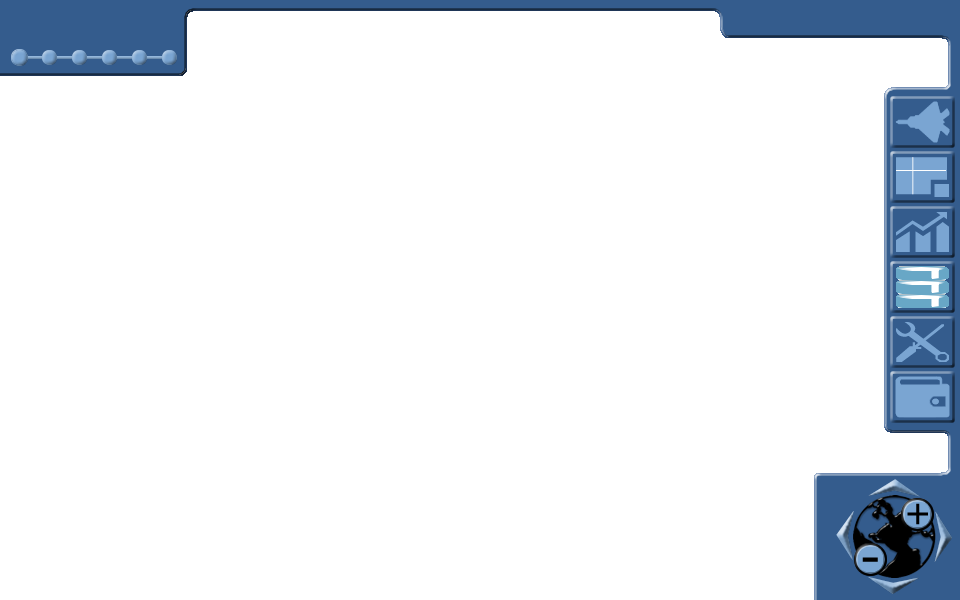
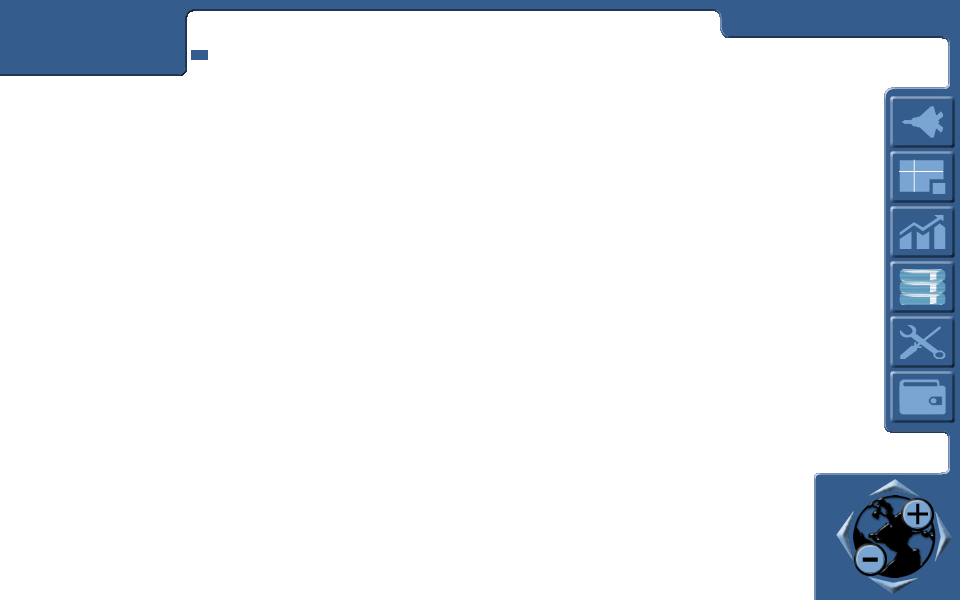
InventoryState BattleScape
Inventory and Battlescape about 95% done,

Changed region(s): [[0.9062, 0.36, 1.0, 0.72], [0.9062, 0.18, 1.0, 0.33], [0.0, 0.06, 0.2188, 0.12]]

diff --git a/src/Geoscape/GeoscapeState.cpp b/src/Geoscape/GeoscapeState.cpp
@@ -124,8 +124,8 @@ GeoscapeState::GeoscapeState() : _pause(false), _zoomInEffectDone(false), _zoomO
 	// Create objects
 	Surface *hd = _game->getResourcePack()->getSurface("ALTGEOBORD.SCR");
 	_bg = new Surface(hd->getWidth(), hd->getHeight(), 0, 0);
-	_sideLine = new Surface(64, screenHeight, screenWidth - 64, 0);
-	_sidebar = new Surface(64, 200, screenWidth - 64, screenHeight / 2 - 100);
+//	_sideLine = new Surface(64, screenHeight, screenWidth - 64, 0);
+//	_sidebar = new Surface(64, 200, screenWidth - 64, screenHeight / 2 - 100);
 
 	_globe = new Globe(_game, (screenWidth-64)/2, screenHeight/2, screenWidth-64, screenHeight, 0, 0);
 	_bg->setX((_globe->getWidth() - _bg->getWidth()) / 2);
@@ -138,34 +138,34 @@ GeoscapeState::GeoscapeState() : _pause(false), _zoomInEffectDone(false), _zoomO
 	_btnOptions = new TextButton(63, 11, screenWidth-63, screenHeight/2-52);
 	_btnFunding = new TextButton(63, 11, screenWidth-63, screenHeight/2-40);
 
-	_btn5Secs = new TextButton(31, 13, screenWidth-63, screenHeight/2+12);
-	_btn1Min = new TextButton(31, 13, screenWidth-31, screenHeight/2+12);
-	_btn5Mins = new TextButton(31, 13, screenWidth-63, screenHeight/2+26);
-	_btn30Mins = new TextButton(31, 13, screenWidth-31, screenHeight/2+26);
-	_btn1Hour = new TextButton(31, 13, screenWidth-63, screenHeight/2+40);
-	_btn1Day = new TextButton(31, 13, screenWidth-31, screenHeight/2+40);
+	_btn5Secs = new TextButton(31, 13, 5, 46);
+	_btn1Min = new TextButton(31, 13, 38, 46);
+	_btn5Mins = new TextButton(31, 13, 71, 46);
+	_btn30Mins = new TextButton(31, 13, 104, 46);
+	_btn1Hour = new TextButton(31, 13, 137, 46);
+	_btn1Day = new TextButton(31, 13, 170, 46);
 
-	_btnRotateLeft = new InteractiveSurface(12, 10, screenWidth-61, screenHeight/2+76);
-	_btnRotateRight = new InteractiveSurface(12, 10, screenWidth-37, screenHeight/2+76);
-	_btnRotateUp = new InteractiveSurface(13, 12, screenWidth-49, screenHeight/2+62);
-	_btnRotateDown = new InteractiveSurface(13, 12, screenWidth-49, screenHeight/2+87);
-	_btnZoomIn = new InteractiveSurface(23, 23, screenWidth-25, screenHeight/2+56);
-	_btnZoomOut = new InteractiveSurface(13, 17, screenWidth-20, screenHeight/2+82);
+	_btnRotateLeft = new InteractiveSurface(17, 50, 837, 511);
+	_btnRotateRight = new InteractiveSurface(17, 50, 935, 512);
+	_btnRotateUp = new InteractiveSurface(50, 17, 869, 479);
+	_btnRotateDown = new InteractiveSurface(50, 17, 869, 577);
+	_btnZoomIn = new InteractiveSurface(31, 31, 855, 544);
+	_btnZoomOut = new InteractiveSurface(31, 31, 902, 499);
 
-	int height = (screenHeight - Screen::ORIGINAL_HEIGHT) / 2 + 10;
+/**	int height = (screenHeight - Screen::ORIGINAL_HEIGHT) / 2 + 10;
 	_sideTop = new TextButton(63, height, screenWidth-63, _sidebar->getY() - height - 1);
 	_sideBottom = new TextButton(63, height, screenWidth-63, _sidebar->getY() + _sidebar->getHeight() + 1);
-
-	_txtHour = new Text(20, 16, screenWidth-61, screenHeight/2-26);
-	_txtHourSep = new Text(4, 16, screenWidth-41, screenHeight/2-26);
-	_txtMin = new Text(20, 16, screenWidth-37, screenHeight/2-26);
-	_txtMinSep = new Text(4, 16, screenWidth-17, screenHeight/2-26);
-	_txtSec = new Text(11, 8, screenWidth-13, screenHeight/2-20);
-	_txtWeekday = new Text(59, 8, screenWidth-61, screenHeight/2-13);
-	_txtDay = new Text(29, 8, screenWidth-61, screenHeight/2-6);
-	_txtMonth = new Text(29, 8, screenWidth-32, screenHeight/2-6);
-	_txtYear = new Text(59, 8, screenWidth-61, screenHeight/2+1);
-	_txtFunds = new Text(59, 8, screenWidth-61, screenHeight/2-27);
+*/
+	_txtHour = new Text(20, 16, 54, 25);
+	_txtHourSep = new Text(4, 16, 74, 25);
+	_txtMin = new Text(20, 16, 78, 25);
+	_txtMinSep = new Text(4, 16, 98, 25);
+	_txtSec = new Text(11, 8, 102, 25);
+	_txtWeekday = new Text(59, 8, 9, 8);
+	_txtDay = new Text(29, 8, 68, 8);
+	_txtMonth = new Text(29, 8, 97, 8);
+	_txtYear = new Text(59, 8, 136, 8);
+	_txtFunds = new Text(59, 16, 800, 12);
 
 	_timeSpeed = _btn5Secs;
 	_gameTimer = new Timer(Options::geoClockSpeed);
@@ -174,7 +174,7 @@ GeoscapeState::GeoscapeState() : _pause(false), _zoomInEffectDone(false), _zoomO
 	_zoomOutEffectTimer = new Timer(Options::dogfightSpeed+10);
 	_dogfightStartTimer = new Timer(Options::dogfightSpeed+10);
 
-	_txtDebug = new Text(200, 18, 0, 0);
+	_txtDebug = new Text(350, 18, 0, 0);
 
 	// Set palette
 	setPalette("PAL_GEOSCAPE");
@@ -184,8 +184,8 @@ GeoscapeState::GeoscapeState() : _pause(false), _zoomInEffectDone(false), _zoomO
 	_game->getFpsCounter()->setColor(Palette::blockOffset(15)+12);
 
 	add(_bg);
-	add(_sideLine);
-	add(_sidebar);
+//	add(_sideLine);
+//	add(_sidebar);
 	add(_globe);
 
 	add(_btnIntercept);
@@ -227,12 +227,12 @@ GeoscapeState::GeoscapeState() : _pause(false), _zoomInEffectDone(false), _zoomO
 
 	// Set up objects
 	Surface *geobord = _game->getResourcePack()->getSurface("GEOBORD.SCR");
-	geobord->setX(_sidebar->getX() - geobord->getWidth() + _sidebar->getWidth());
-	geobord->setY(_sidebar->getY());
-	_sidebar->copy(geobord);
+//	geobord->setX(_sidebar->getX() - geobord->getWidth() + _sidebar->getWidth());
+//	geobord->setY(_sidebar->getY());
+//	_sidebar->copy(geobord);
 	_game->getResourcePack()->getSurface("ALTGEOBORD.SCR")->blit(_bg);
 
-	_sideLine->drawRect(0, 0, _sideLine->getWidth(), _sideLine->getHeight(), 15);
+//	_sideLine->drawRect(0, 0, _sideLine->getWidth(), _sideLine->getHeight(), 15);
 
 	_btnIntercept->initText(_game->getResourcePack()->getFont("FONT_GEO_BIG"), _game->getResourcePack()->getFont("FONT_GEO_SMALL"), _game->getLanguage());
 	_btnIntercept->setColor(Palette::blockOffset(15)+6);
@@ -2294,13 +2294,13 @@ void GeoscapeState::resize(int &dX, int &dY)
 
 	int height = (Options::baseYResolution - Screen::ORIGINAL_HEIGHT) / 2 + 10;
 	_sideTop->setHeight(height);
-	_sideTop->setY(_sidebar->getY() - height - 1);
-	_sideBottom->setHeight(height);
-	_sideBottom->setY(_sidebar->getY() + _sidebar->getHeight() + 1);
+//	_sideTop->setY(_sidebar->getY() - height - 1);
+//	_sideBottom->setHeight(height);
+//	_sideBottom->setY(_sidebar->getY() + _sidebar->getHeight() + 1);
 
-	_sideLine->setHeight(Options::baseYResolution);
-	_sideLine->setY(0);
-	_sideLine->drawRect(0, 0, _sideLine->getWidth(), _sideLine->getHeight(), 15);
+//	_sideLine->setHeight(Options::baseYResolution);
+//	_sideLine->setY(0);
+//	_sideLine->drawRect(0, 0, _sideLine->getWidth(), _sideLine->getHeight(), 15);
 }
 
 }

diff --git a/src/Battlescape/InventoryState.cpp b/src/Battlescape/InventoryState.cpp
@@ -81,7 +81,7 @@ InventoryState::InventoryState(bool tu, BattlescapeState *parent) : _tu(tu), _pa
 
 	// Create objects
 	_bg = new Surface(960, 600, 0, 0);
-	_soldier = new Surface(121, 215, 83, 85);
+	_soldier = new Surface(121, 215, 103, 85);
 	_rank = new Surface(26, 23, 5, 5); //added for the rank icon
 	_txtName = new Text(400, 17, 40, 10);
 	_txtWeight = new Text(70, 9, 400, 52);
@@ -101,12 +101,12 @@ InventoryState::InventoryState(bool tu, BattlescapeState *parent) : _tu(tu), _pa
 	_btnApplyTemplate = new InteractiveSurface(32, 22, _templateBtnX, _applyTemplateBtnY);
 	_selAmmo = new Surface(RuleInventory::HAND_W * RuleInventory::SLOT_W, RuleInventory::HAND_H * RuleInventory::SLOT_H, 8, 325);
 	_inv = new Inventory(_game, 960, 600, 0, 0, _parent == 0);
-	_txtRank = new Text(100, 10, 5, 38); // added
-	_txtCraft = new Text(100, 10, 110, 38); // added
-	_txtMissions = new Text(100, 10, 215, 38); // added
-	_txtKills = new Text(100, 10, 320, 38); // added
-	_txtStatus = new Text(100, 10, 425, 38); // added
-	_txtArmor = new Text(100, 10, 530, 38); // added
+	_txtRank = new Text(100, 10, 40, 38); // added
+	_txtMissions = new Text(100, 10, 145, 38); // added
+	_txtKills = new Text(100, 10, 250, 38); // added
+	_txtStatus = new Text(100, 10, 355, 38); // added
+	_txtCraft = new Text(150, 10, 460, 38); // added
+	_txtArmor = new Text(150, 10, 565, 38); // added
 
 	_txtTimeUnits = new Text(120, 9, 546, 100);
 	_numTimeUnits = new Text(18, 9, 662, 100);

diff --git a/src/Battlescape/BattlescapeState.cpp b/src/Battlescape/BattlescapeState.cpp
@@ -84,6 +84,7 @@
 #include "../Menu/LoadGameState.h"
 #include "../Menu/SaveGameState.h"
 #include "../fmath.h"
+#include "../Ruleset/RuleInventory.h"
 
 namespace OpenXcom
 {
@@ -1405,8 +1406,11 @@ void BattlescapeState::handleItemClick(BattleItem *item)
 	{
 		if (_game->getSavedGame()->isResearched(item->getRules()->getRequirements()) || _save->getSelectedUnit()->getOriginalFaction() == FACTION_HOSTILE)
 		{
+			// Let's hardcode this instead of doing math like we should for moving the shot selection state.
+			const int offset = item->getSlot()->getId() == "STR_RIGHT_HAND" ? 600 : 60; 
+		
 			_battleGame->getCurrentAction()->weapon = item;
-			popup(new ActionMenuState(_battleGame->getCurrentAction(), _icons->getX(), _icons->getY()+16));
+			popup(new ActionMenuState(_battleGame->getCurrentAction(), _icons->getX() - 15 + offset, _icons->getY() + 20));
 		}
 		else
 		{
